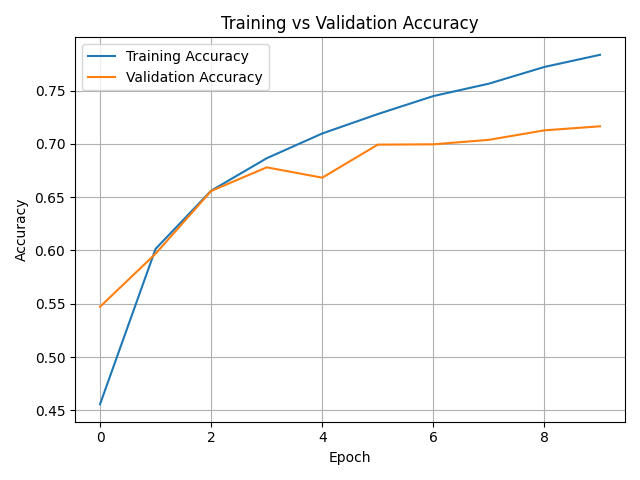
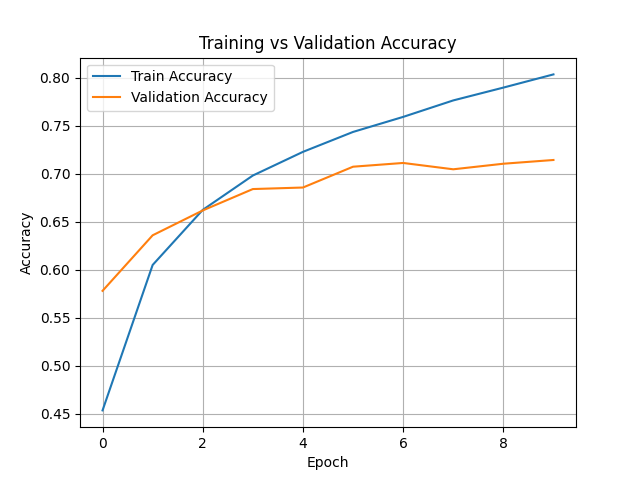
Updated model code and added accuracy plot

diff --git a/task2classification.py b/task2classification.py
@@ -1,95 +1,86 @@
-# ======================================
+# ============================ 
 # Step 1: Import required libraries
-# ======================================
+# ============================
+
 import tensorflow as tf
-from tensorflow.keras import datasets, layers, models
 import matplotlib.pyplot as plt
 import numpy as np
 import os
 
-# ======================================
+# Access keras modules using tf.keras
+datasets = tf.keras.datasets
+layers = tf.keras.layers
+models = tf.keras.models
+
+# ============================
 # Step 2: Create output folder
-# ======================================
+# ============================
+
 output_folder = "output_results"
 os.makedirs(output_folder, exist_ok=True)
 
-# ======================================
+# ============================
 # Step 3: Load and preprocess CIFAR-10 dataset
-# ======================================
+# ============================
+
 (x_train, y_train), (x_test, y_test) = datasets.cifar10.load_data()
 x_train, x_test = x_train / 255.0, x_test / 255.0
 
 class_names = ['Airplane', 'Automobile', 'Bird', 'Cat', 'Deer',
                'Dog', 'Frog', 'Horse', 'Ship', 'Truck']
 
-# ======================================
-# Step 4: Build the CNN model
-# ======================================
+# ============================
+# Step 4: Build CNN model
+# ============================
+
 model = models.Sequential([
     layers.Conv2D(32, (3, 3), activation='relu', input_shape=(32, 32, 3)),
     layers.MaxPooling2D((2, 2)),
-
+    
     layers.Conv2D(64, (3, 3), activation='relu'),
     layers.MaxPooling2D((2, 2)),
-
+    
     layers.Conv2D(64, (3, 3), activation='relu'),
-
     layers.Flatten(),
     layers.Dense(64, activation='relu'),
-    layers.Dense(10)
+    layers.Dense(10)  # 10 output classes
 ])
 
-# ======================================
+# ============================
 # Step 5: Compile the model
-# ======================================
-model.compile(
-    optimizer='adam',
-    loss=tf.keras.losses.SparseCategoricalCrossentropy(from_logits=True),
-    metrics=['accuracy']
-)
+# ============================
 
-# ======================================
+model.compile(optimizer='adam',
+              loss=tf.keras.losses.SparseCategoricalCrossentropy(from_logits=True),
+              metrics=['accuracy'])
+
+# ============================
 # Step 6: Train the model
-# ======================================
-history = model.fit(
-    x_train, y_train,
-    epochs=10,
-    validation_data=(x_test, y_test)
-)
+# ============================
 
-# ======================================
-# Step 7: Evaluate model on test data
-# ======================================
+history = model.fit(x_train, y_train, epochs=10, 
+                    validation_data=(x_test, y_test))
+
+# ============================
+# Step 7: Evaluate the model
+# ============================
+
 test_loss, test_acc = model.evaluate(x_test, y_test, verbose=2)
-print("\nTest accuracy:", test_acc)
+print(f"\n✅ Test accuracy: {test_acc:.4f}")
 
-# Save test accuracy to a text file
-with open(os.path.join(output_folder, "accuracy.txt"), "w") as f:
-    f.write(f"Test accuracy: {test_acc:.4f}\n")
+# ============================
+# Step 8: Save accuracy plot
+# ============================
 
-# ======================================
-# Step 8: Plot and save training graph
-# ======================================
-plt.plot(history.history['accuracy'], label='Training Accuracy')
+plt.plot(history.history['accuracy'], label='Train Accuracy')
 plt.plot(history.history['val_accuracy'], label='Validation Accuracy')
 plt.xlabel('Epoch')
 plt.ylabel('Accuracy')
-plt.title('Training vs Validation Accuracy')
 plt.legend()
+plt.title('Training vs Validation Accuracy')
 plt.grid(True)
-plt.tight_layout()
-plt.savefig(os.path.join(output_folder, "accuracy_plot.png"))
-plt.show()
 
-# ======================================
-# Step 9: Predict and save probabilities
-# ======================================
-probability_model = tf.keras.Sequential([
-    model,
-    tf.keras.layers.Softmax()
-])
-
-predictions = probability_model.predict(x_test)
-
-# Save predictions for first 10 samples
-np.save(os.path.join(output_folder, "predictions.npy"), predictions[:10])
+# Save the plot
+plot_path = os.path.join(output_folder, 'accuracy_plot.png')
+plt.savefig(plot_path)
+print(f"📊 Accuracy plot saved at: {plot_path}")
